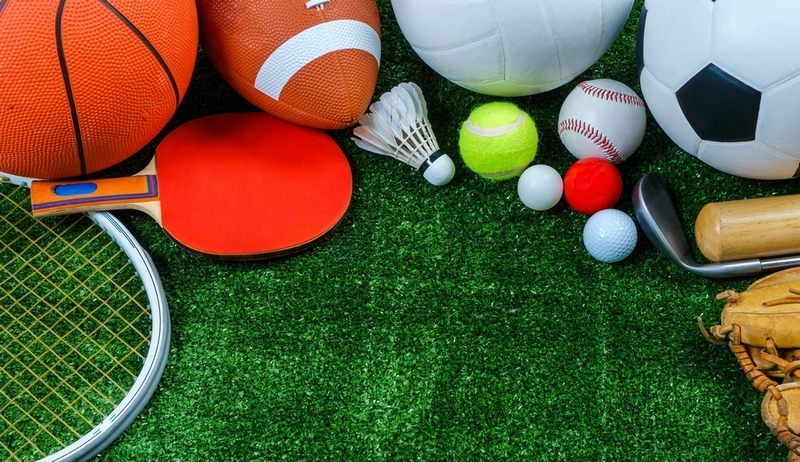
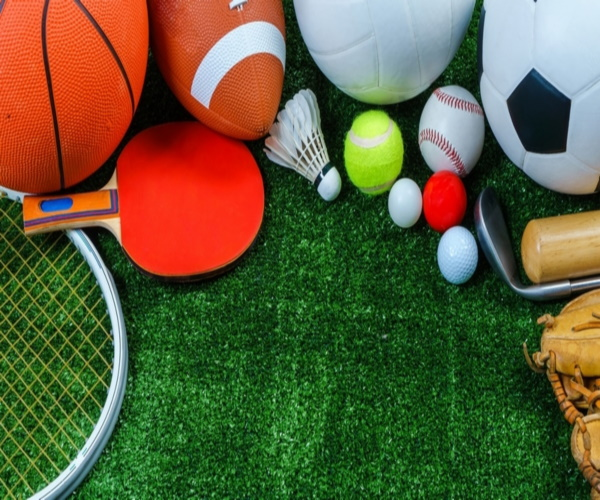
Ajout du titre

Changed region(s): [[0.96, 0.5455, 1.0, 0.5758], [0.75, 0.303, 0.78, 0.3333]]

diff --git a/index.html b/index.html
@@ -15,7 +15,7 @@
       <nav class="navbar navbar-expand-lg navbar-light bg-light">
         <div class="logo">
         <a href="index.html">
-          <img class="logoimg" src="logoascollege.png" alt="Logo de l'association">
+          <img class="logoimg" src="logoAS.png" alt="Logo de l'association">
         </a>
         </div>
         <button class="navbar-toggler" type="button" data-toggle="collapse" 
@@ -41,6 +41,7 @@
         </div>
       </nav>
     </header>
+    <div><h1>Association sportive du collège Georges Politzer - Dammarie les lys</h1></div>
     <div class="container carouselboxstyle">
         <div id="carouselExampleControls" class="carousel slide" data-ride="carousel">
           <ol class="carousel-indicators">
@@ -54,6 +55,7 @@
               <div class="carousel-caption d-md-block">
                 <h5>Actualités</h5>
                 <p>Toutes les actualités de votre association sportive !</p>
+                <button type="button" class="btn btn-primary">Actualités</button>
               </div>
             </div>
             <div class="carousel-item">
@@ -64,7 +66,7 @@
               </div>
             </div>
             <div class="carousel-item">
-              <img class="d-block w-100 imgsizecarousel carouselborder" src="logoascollege.png" alt="Third slide">
+              <img class="d-block w-100 imgsizecarousel carouselborder" src="IMG_6173.jpg" alt="Third slide">
               <div class="carousel-caption d-md-block">
                 <h5>Actualités</h5>
                 <p>Toutes les actualités de votre association sportive !</p>

diff --git a/styles.css b/styles.css
@@ -4,13 +4,15 @@ body{
   background-repeat: no-repeat;
   background-size: cover;
 }
-section{
-  background-color: rgba(240, 255, 255,0.5);
-  max-width: 50%;
-  max-height: 75%;
-  position: absolute;
-  margin: 10px;
-  padding: 10px;
+h1{
+  margin-top: 15px;
+  margin-bottom: 15px;
+  font-size: 1.5rem;
+  font-weight:200 ;
+  color: white;
+  text-shadow: 2px 2px gray;
+  font-family: Verdana, Geneva, Tahoma, sans-serif;
+  text-align: center;
 }
 .logo{
   margin: 5px;
@@ -22,8 +24,7 @@ section{
 }
 
 .imgsizecarousel{
-  max-height: 300px;
-  max-width: fit-content;
+  max-height: 80vh;
 }
 .carouselborder{
   border-radius: 5px;
@@ -32,5 +33,13 @@ section{
 .carouselboxstyle{
   margin-top: 15px;
   margin-bottom: 15px;
-  max-height: 300px;
+  ;
+}
+.carousel-indicators li {
+  width: 10px;
+  height: 10px;
+  border-radius: 100%;
+}
+.btn{
+  margin-bottom: 5px;
 }
